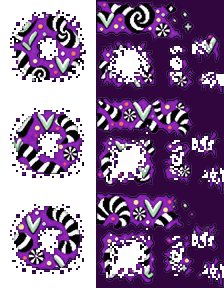
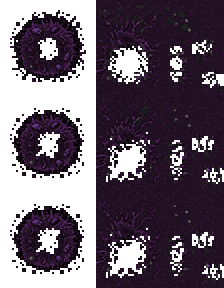
Supplied splats: beetlefreak repainted, beetleground new, skyway base
beetlefreak_splat came back repainted on the SAME alpha mask, so it is a
straight overwrite. beetleground_splat is new and shares
overgrowneden_splat's mask exactly -- 83,428 opaque pixels in both -- so
it is on format and ready for whatever ground claims it; nothing reads it
yet. tiles/skyway.png is supplied now, so convert_biome_art stops writing
the flat base tile (it still writes the splat), and all three are in the
CONVERTED guard.

overgrowneden_splat needed nothing: the supplied file is byte-identical
to the one already shipped.

Claude-Session: https://claude.ai/code/session_01HnNZ8fgewte9549T5gLwyk

diff --git a/tools/asset_generator/generate_assets.py b/tools/asset_generator/generate_assets.py
@@ -46,6 +46,11 @@ import gen_outlands  # noqa: E402
 # reference art. Two producers writing the same path meant whichever ran last
 # won, silently; the guard at the end of main() fails loudly instead.
 CONVERTED = ("tiles/skyway.png", "tiles/skyway_splat.png",
+             # Supplied splats. beetlefreak_splat came back repainted on the
+             # SAME alpha mask, so it is a straight overwrite; beetleground
+             # is new and shares overgrowneden's mask exactly (83,428 opaque
+             # pixels in both), so it is ready for whatever ground claims it.
+             "tiles/beetlefreak_splat.png", "tiles/beetleground_splat.png",
              "objects/skyseraphtree.png", "items/skyseraphtree.png",
              "objects/statues/seraph.png", "items/seraphstatue.png",
              "objects/cloudtree.png", "items/cloudtree.png",

diff --git a/tools/convert_biome_art.py b/tools/convert_biome_art.py
@@ -242,10 +242,8 @@ def build_skyway_ground():
     tiles = os.path.join(ROOT, "src/main/resources/tiles")
     gen_splats.build_splat(os.path.join(tiles, "skyway_splat.png"), material,
                            variants=4, salt=0x5CA9)
-    # the flat base tile the engine falls back to
-    base = Canvas(32, 32)
-    material(base, 0, 0, 0x5CA9)
-    base.save(os.path.join(tiles, "skyway.png"))
+    # tiles/skyway.png -- the flat base tile the engine falls back to -- is
+    # SUPPLIED art now and is no longer written here. The splat above still is.
     return os.path.join(tiles, "skyway_splat.png")
 
 
